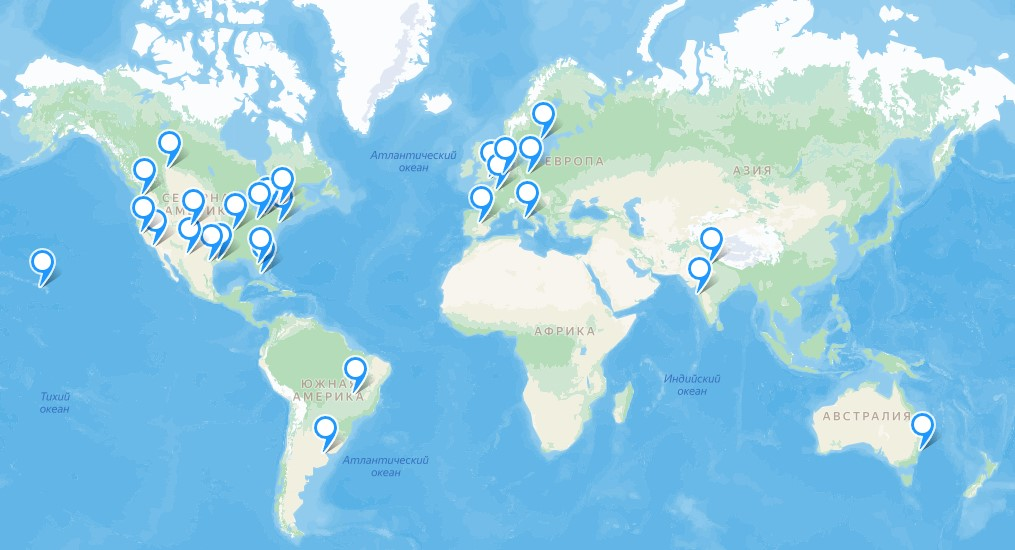
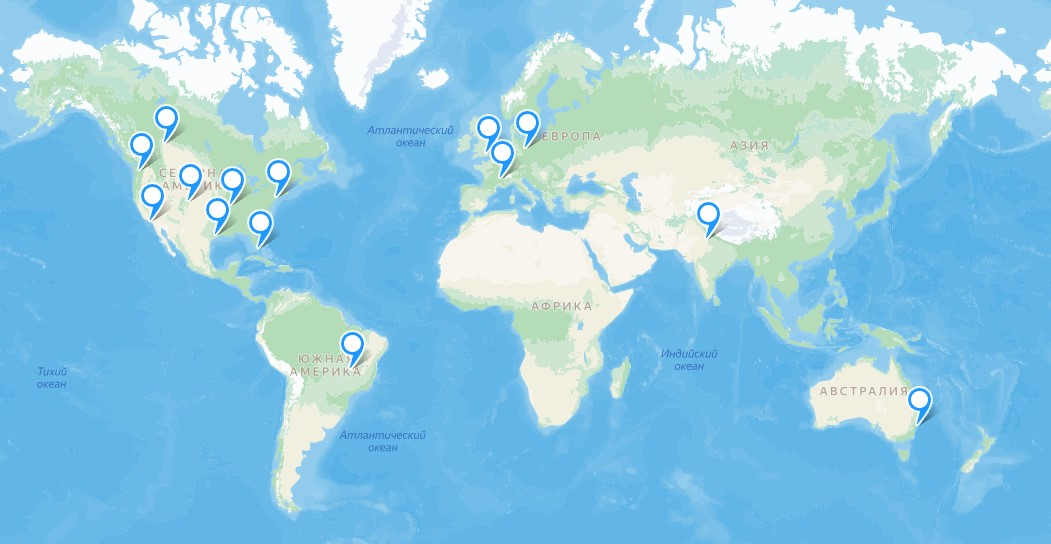
small fixes

diff --git a/README.md b/README.md
@@ -322,35 +322,22 @@
 
 Для них стоит расположить ДЦ в самых населенных городах. Для менее густонаселенных участков расположим один ДЦ на несколько штатов. Таким образом спсиок городов с ДЦ в США будет иметь вид:
 - Лос-анджелес
-- Сан-франциско
 - Хьюстон
-- Сан-Антонио
-- Сьюдад-Хуарес
 - Маями
-- Орландо
 - Нью-Йорк
-- Баффало
-- Гонолулу
-- Кливленд
 - Денвер
 - Сиэтл
 - Сент-Луис
 
-Для остальных стран расположим по 1-2 ДЦ в самых густонаселенных городах:
-- Монреаль
+Для остальных стран расположим по 1 ДЦ в самых густонаселенных городах:
 - Эдмонтон
 - Лондон
 - Берлин
-- Париж 
-- Стокгольм
 - Мадрид
-- Амстердам
 - Рим
 - Нью Дели
-- Мумбаи
 - Сидней
 - Бразилиа
-- Буэнос-Айрес
 
 ![image](./assets/R_DC_MAP.jpg "Распределение численности населения США") 
 
@@ -361,18 +348,13 @@
 | Страна       | % всех пользователей | Суммарный RPS на страну |
 |--------------|----------------------|-------------------------|
 | США          | 50.36                | 15156.60                |
-| Великобритания| 6.93                 | 2085.69                 |
+| Великобритания| 9.93                | 2979.69                 |
+| Германия     | 7.64                 | 2299.46                 |
 | Канада       | 6.9                  | 2076.66                 |
+| Франция      | 6.84                 | 1964.74                 |
 | Индия        | 5.18                 | 1558.99                 |
 | Австралия    | 4.07                 | 1224.93                 |
-| Германия     | 3.04                 | 915.02                  |
-| Франция      | 2.97                 | 893.87                  |
-| Бразилия     | 2.62                 | 788.53                  |
-| Нидерланды   | 2.55                 | 767.46                  |
-| Швеция       | 2.05                 | 616.98                  |
-| Испания      | 1.99                 | 598.92                  |
-| Италия       | 1.88                 | 565.82                  |
-| Аргентина    | 1.03                 | 310.00                  |
+| Бразилия     | 3.65                 | 1098.53                 |
 ### Схема DNS-балансировки
 Ввиду масштаба и требования к высокой доступности, производительности и отказоустойчивости для reddit можно применить **Geo-based DNS**, который должен обеспечить направление пользователя на ближаший ДЦ. Однако данный метод не может гарантировать минимальную задержку, так как не учитывает загруженность ДЦ. Для решения этой проблемы можно использовать **Latency-based DNS**, который отправляет пользователя на ДЦ с минимальной задержкой.
 
